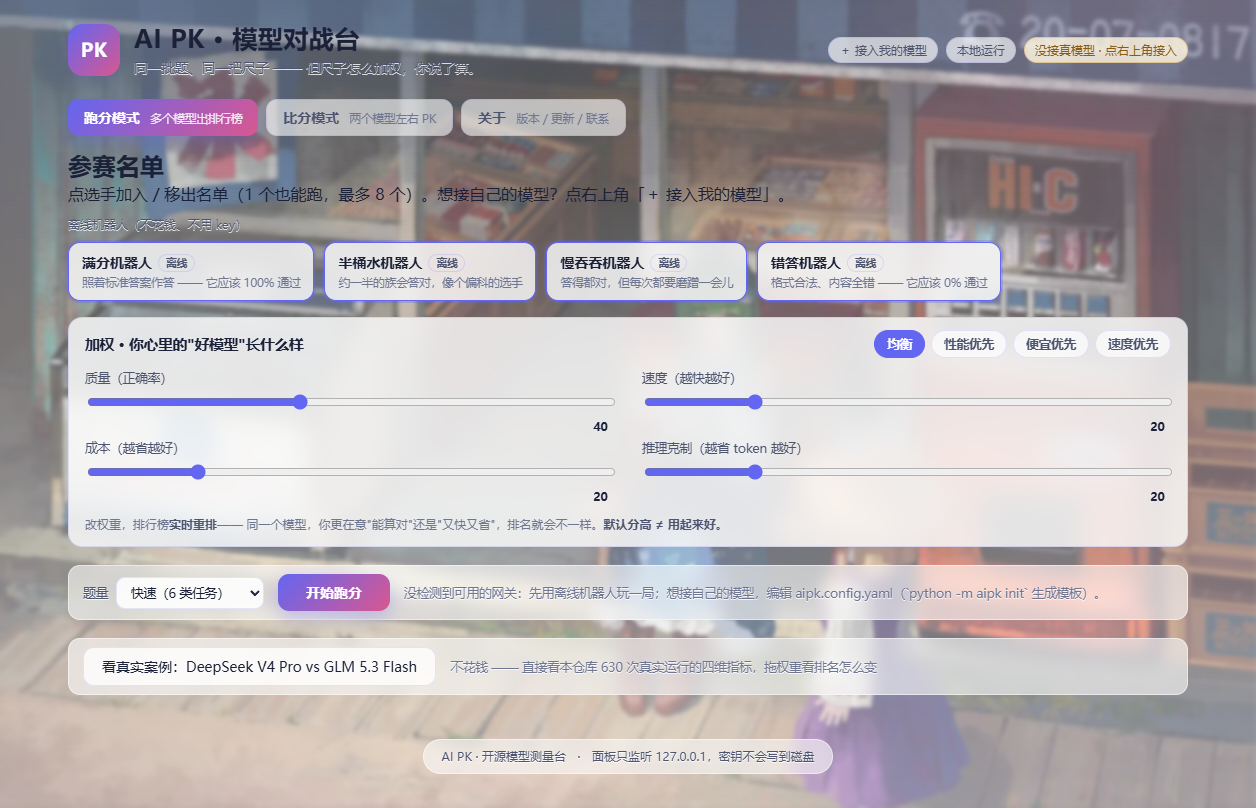
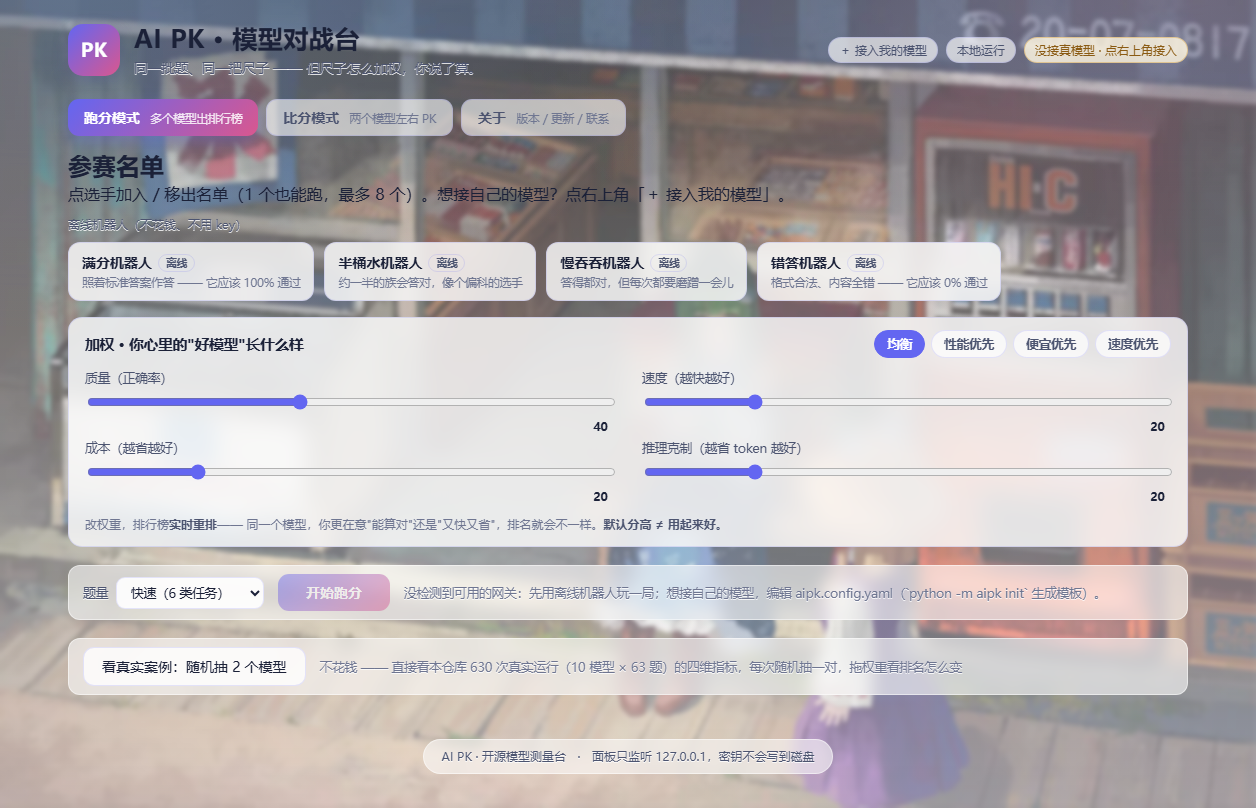
feat(panel): 示例改为随机抽对（10 模型池 + ?sample 深链可指定/复现某对）；重生成截图、修 README 失效头图
- 示例不再固定点名 DeepSeek V4 Pro vs GLM 5.3 Flash：点「看真实案例」从 630 次真实运行聚合的 10 模型池里无放回随机抽 2 个，再点换一对

diff --git a/aipk/web/panel.js b/aipk/web/panel.js
@@ -26,15 +26,31 @@ const PRESETS = {
   "速度优先": { q: .35, s: .45, c: .10, r: .10 },
 };
 
-// 真实案例：本仓库 runs/20260925-132828（630 次真实运行）的两个模型四维指标。
-// 只展示测量数据本身，用来说明"权重一变、排名就变"。
+// 真实案例：本仓库 runs/20260925-132828（630 次真实运行 = 10 模型 × 63 题）按模型聚合的四维指标，
+// 聚合口径与 _summarize() 一致（infra_failure 不计入）。只展示测量数据本身，用来说明"权重一变、排名就变"。
+// 示例不固定点名任何一对模型：每次点「看真实案例」从池子里随机抽 2 个，再点一次换一对。
 const SAMPLE = {
-  note: "示例数据来自本仓库 runs/20260925-132828（630 次真实运行，每模型 63 题）。想出自己的结论，挑真模型跑一遍。",
-  models: [
-    { key: "alibailian/deepseek-v4-pro", name: "DeepSeek V4 Pro", rate: .984, avg_ms: 39876, avg_tok: 7503, rea_ratio: .185, avg_turns: 1.6, solved: 62, total: 63 },
-    { key: "jiyuanapi/glm-5.3-flash", name: "GLM 5.3 Flash", rate: 1.0, avg_ms: 58117, avg_tok: 6925, rea_ratio: .149, avg_turns: 1.5, solved: 63, total: 63 },
+  note: "示例数据来自本仓库 runs/20260925-132828（630 次真实运行，10 模型 × 63 题）。点「看真实案例」每次随机抽 2 个模型；想出自己的结论，挑真模型跑一遍。",
+  pool: [
+    { key: "alibailian/deepseek-v4-pro", name: "DeepSeek V4 Pro", rate: .984, avg_ms: 39876, avg_tok: 7503, rea_ratio: .185, avg_turns: 3.7, solved: 62, total: 63 },
+    { key: "jiyuanapi/qwen3.8-max", name: "Qwen3.8 Max", rate: 1.0, avg_ms: 43469, avg_tok: 8927, rea_ratio: .073, avg_turns: 4.5, solved: 63, total: 63 },
+    { key: "jiyuanapi/glm-5.3", name: "GLM-5.3", rate: .905, avg_ms: 56765, avg_tok: 7726, rea_ratio: .235, avg_turns: 4.1, solved: 57, total: 63 },
+    { key: "alibailian/kimi-k3", name: "Kimi K3", rate: 1.0, avg_ms: 41196, avg_tok: 3971, rea_ratio: .291, avg_turns: 3.8, solved: 63, total: 63 },
+    { key: "jiyuanapi/seed-2.1-pro", name: "Seed 2.1 Pro", rate: .905, avg_ms: 166263, avg_tok: 19432, rea_ratio: .394, avg_turns: 5.6, solved: 57, total: 63 },
+    { key: "jiyuanapi/longcat-2.0", name: "LongCat 2.0", rate: .921, avg_ms: 75879, avg_tok: 11767, rea_ratio: .201, avg_turns: 4.8, solved: 58, total: 63 },
+    { key: "zcode-api-key/glm-4.7", name: "GLM-4.7", rate: .937, avg_ms: 47574, avg_tok: 5890, rea_ratio: .149, avg_turns: 3.5, solved: 59, total: 63 },
+    { key: "jiyuanapi/deepseek-flash", name: "DeepSeek V4.1 (flash)", rate: .968, avg_ms: 23826, avg_tok: 8165, rea_ratio: .072, avg_turns: 4.5, solved: 61, total: 63 },
+    { key: "jiyuanapi/glm-5.3-flash", name: "GLM-5.3 Flash", rate: 1.0, avg_ms: 58117, avg_tok: 6925, rea_ratio: .149, avg_turns: 4.2, solved: 63, total: 63 },
+    { key: "alibailian/qwen3.8-flash", name: "Qwen3.8 Flash", rate: 1.0, avg_ms: 29283, avg_tok: 9342, rea_ratio: .111, avg_turns: 4.5, solved: 63, total: 63 },
   ],
 };
+/* 从示例池随机抽 2 个不同模型（无放回），示例不固定点名任何一对 */
+function drawSample() {
+  const pool = [...SAMPLE.pool];
+  const a = pool.splice(Math.floor(Math.random() * pool.length), 1)[0];
+  const b = pool.splice(Math.floor(Math.random() * pool.length), 1)[0];
+  return [a, b];
+}
 
 /* ---------------- 小工具 ---------------- */
 function esc(s) { return String(s == null ? "" : s).replace(/[&<>"]/g, (c) =>
@@ -78,6 +94,12 @@ async function boot() {
   $("#scoreNote").textContent = st.note || "";
   wire();
   setMode("score");
+  // 深链：/?sample 看随机抽的真实案例；/?sample=<key1>,<key2> 指定一对（分享 / 截图复现用）
+  const sp = new URLSearchParams(location.search);
+  if (sp.has("sample")) {
+    const fixed = (sp.get("sample") || "").split(",").map((s) => s.trim()).filter(Boolean);
+    showSample(fixed.length >= 2 ? fixed : null);
+  }
 }
 
 /* ---------------- 选手池 ---------------- */
@@ -200,10 +222,17 @@ function renderLeaderboard() {
   }).join("");
   $("#scoreResult").hidden = false;
 }
-function showSample() {
-  state.scoreModels = SAMPLE.models;
+function showSample(fixedKeys) {
+  let pair = null;
+  if (fixedKeys && fixedKeys.length >= 2) {
+    const a = SAMPLE.pool.find((m) => m.key === fixedKeys[0]);
+    const b = SAMPLE.pool.find((m) => m.key === fixedKeys[1]);
+    if (a && b && a !== b) pair = [a, b];
+  }
+  state.scoreModels = pair || drawSample();
   renderLeaderboard();
   $("#scoreNote").textContent = SAMPLE.note;
+  $("#scoreResult").scrollIntoView({ block: "end" });
 }
 
 /* ---------------- 跑分（排队制） ---------------- */
@@ -318,7 +347,7 @@ function wire() {
   $("#guideClose").addEventListener("click", () => { $("#configGuide").hidden = true; });
   $("#btnUpdate").addEventListener("click", checkUpdate);
   $("#btnScore").addEventListener("click", startScore);
-  $("#btnSample").addEventListener("click", showSample);
+  $("#btnSample").addEventListener("click", () => showSample());
   document.querySelectorAll(".preset").forEach((b) => b.addEventListener("click", () => applyPreset(b.dataset.preset)));
   ["wq", "ws", "wc", "wr"].forEach((id) => $("#" + id).addEventListener("input", () => {
     document.querySelectorAll(".preset").forEach((b) => b.classList.remove("active"));

diff --git a/aipk/web/index.html b/aipk/web/index.html
@@ -90,8 +90,8 @@ roster:
     </div>
 
     <div class="controls sample-row">
-      <button class="btn" id="btnSample">看真实案例：DeepSeek V4 Pro vs GLM 5.3 Flash</button>
-      <span class="note">不花钱 —— 直接看本仓库 630 次真实运行的四维指标，拖权重看排名怎么变</span>
+      <button class="btn" id="btnSample">看真实案例：随机抽 2 个模型</button>
+      <span class="note">不花钱 —— 直接看本仓库 630 次真实运行（10 模型 × 63 题）的四维指标，每次随机抽一对，拖权重看排名怎么变</span>
     </div>
 
     <div class="progress" id="scoreProgress" hidden>

diff --git a/README.md b/README.md
@@ -1,6 +1,6 @@
 <div align="center">
 
-<img src="docs/images/panel-calibration.png" width="820" alt="跑分模式：加权排行榜 + 认知校准卡">
+<img src="docs/images/panel-board.png" width="820" alt="跑分模式：加权排行榜（示例为随机抽取的两个模型）">
 
 # AI PK · 模型对战台
 
@@ -101,7 +101,7 @@ python -m aipk panel          # 或双击 启动对战台.bat
 1. 在**参赛名单**里点选手加入 / 移出（**1 个也能跑**，最多 8 个）；
 2. 选**加权**：点预设（均衡 / 性能优先 / 便宜优先 / 速度优先）或拖四个滑块（质量 / 速度 / 成本 / 推理占比）；
 3. 选题量，点**开始跑分**。**提交多局会自动排队**（一次只跑一局，避免一起压网关触发限流）；跑完出排行榜，**改权重实时重排**，不用重跑。
-4. 没网关也能看：点**「看真实案例」**，直接看本仓库 630 次真实运行里两个模型的四维指标，拖权重看排名怎么变。
+4. 没网关也能看：点**「看真实案例」**，从本仓库 630 次真实运行（10 模型 × 63 题）里**随机抽 2 个模型**看四维指标，拖权重看排名怎么变；再点一次换一对。
 
 **比分模式** —— 两个模型左右 PK：拖进左 / 右场地（或点卡片再点场地），点**开打**，出比分、逐题对错格子和一句判词（打平时自动比速度和账单）。
 
